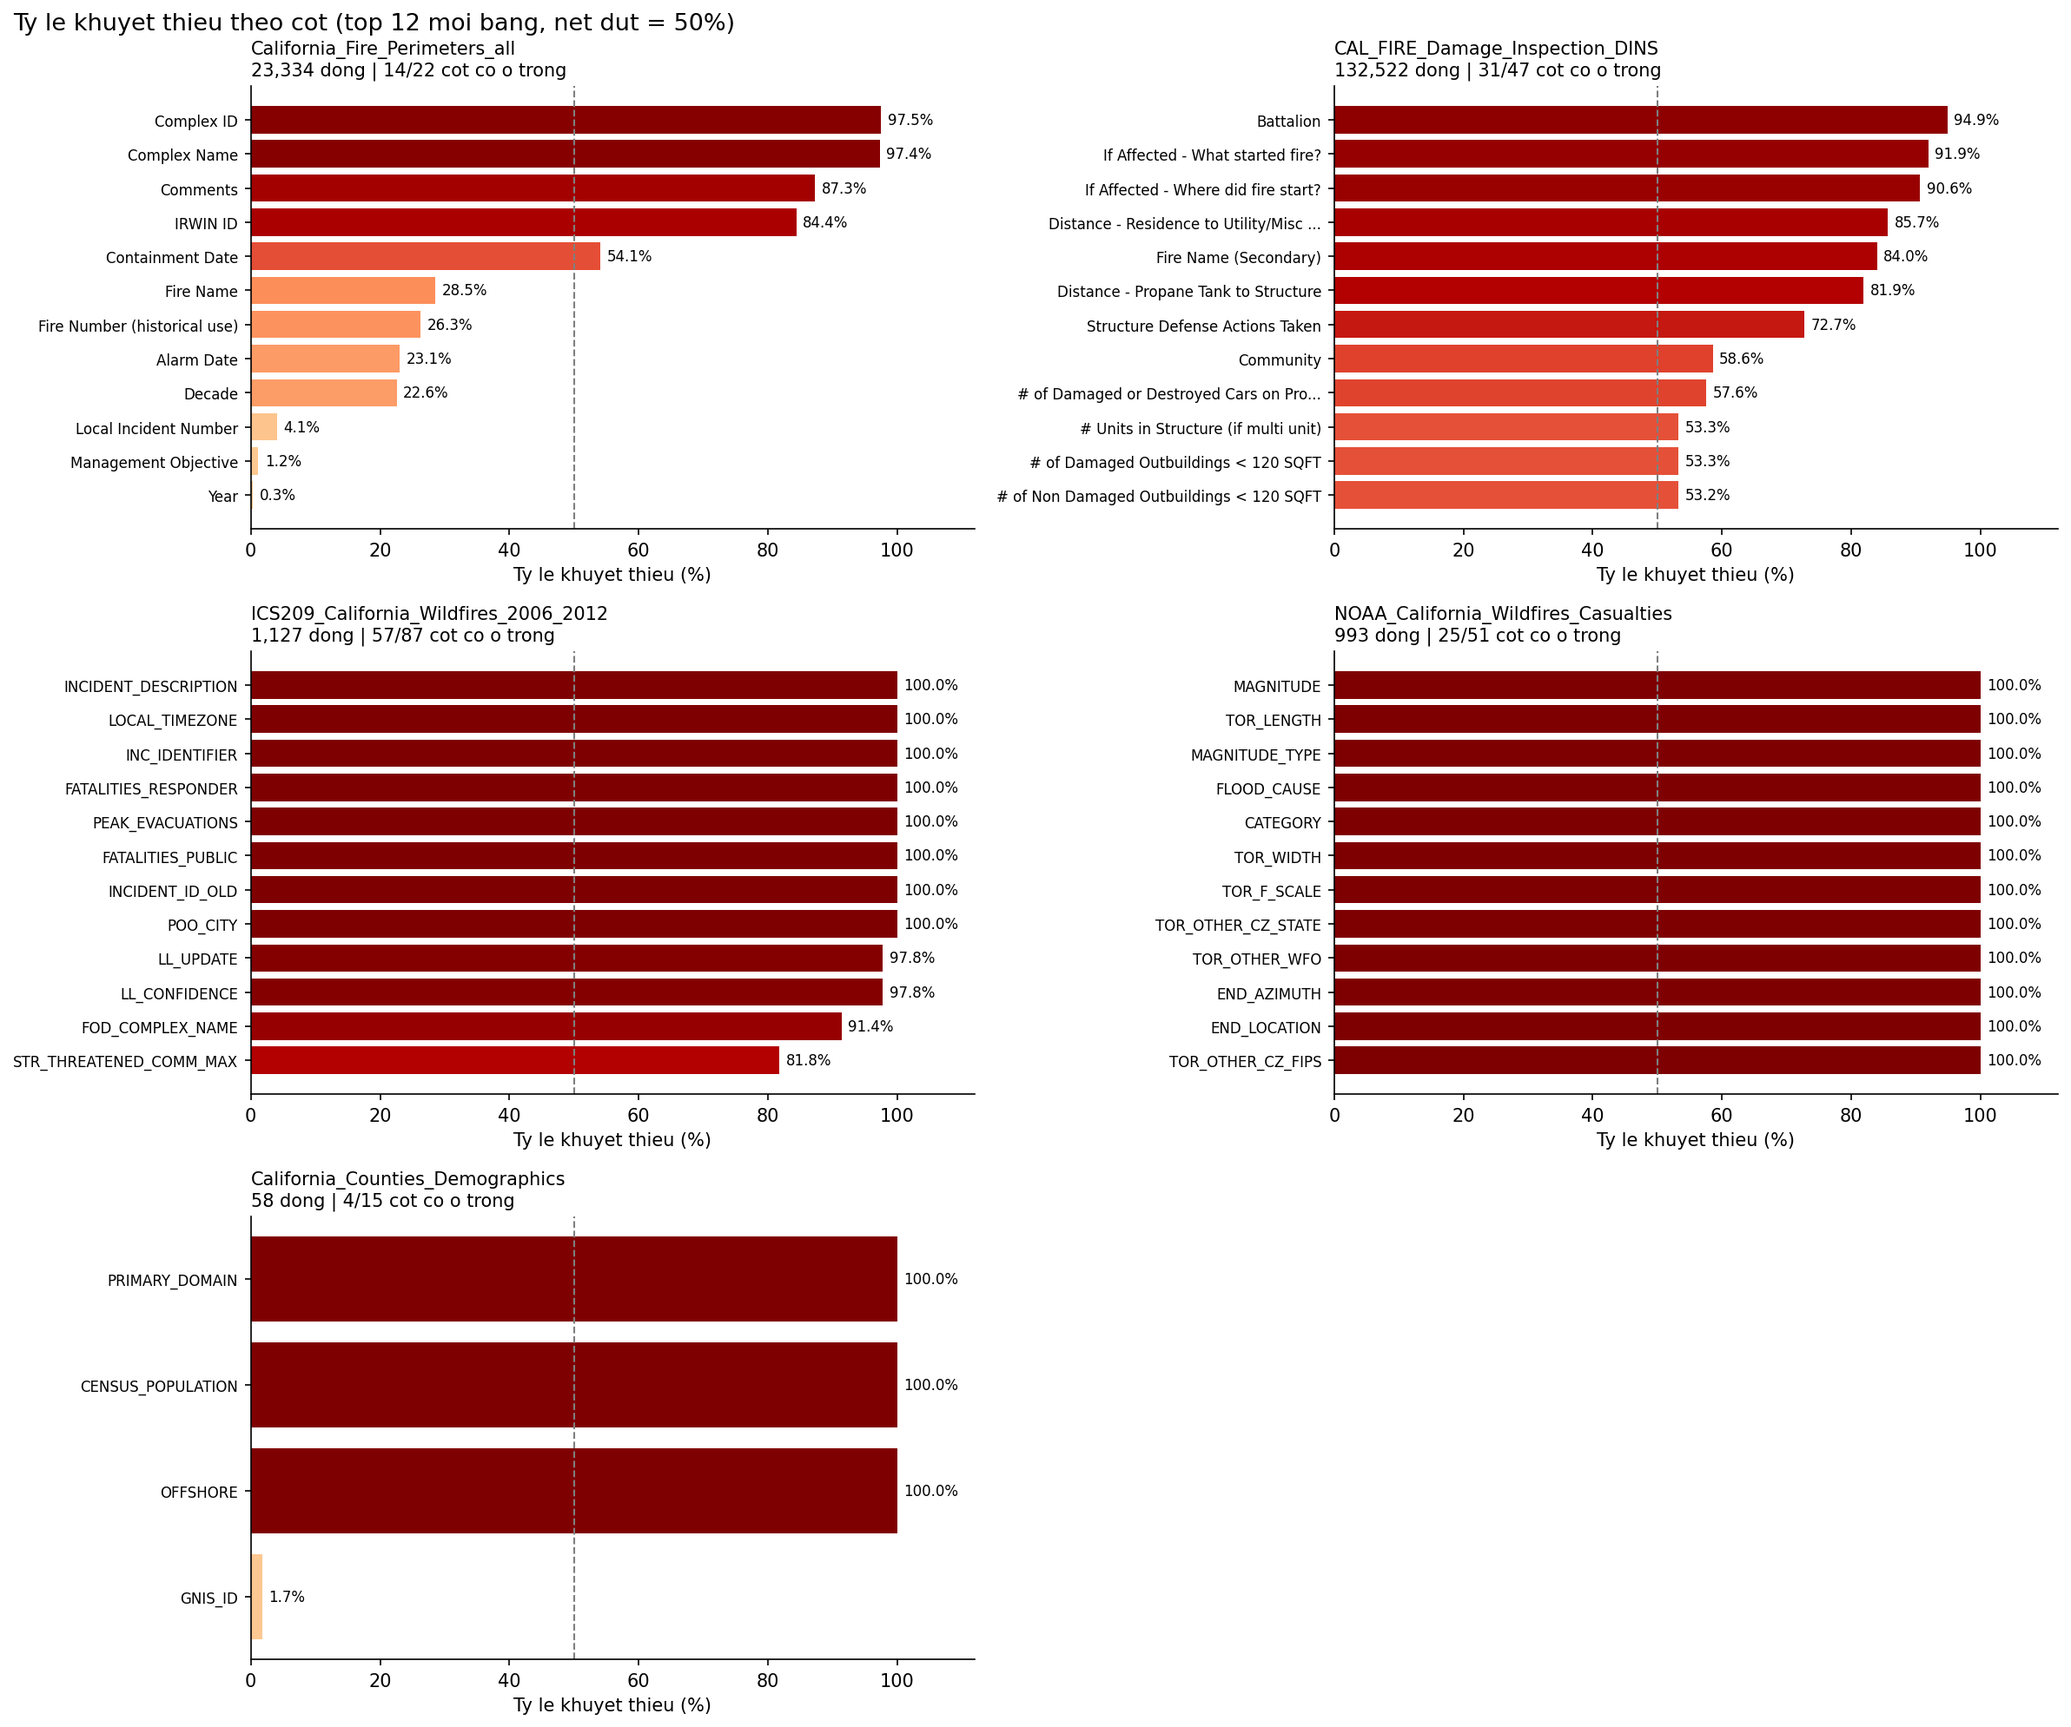
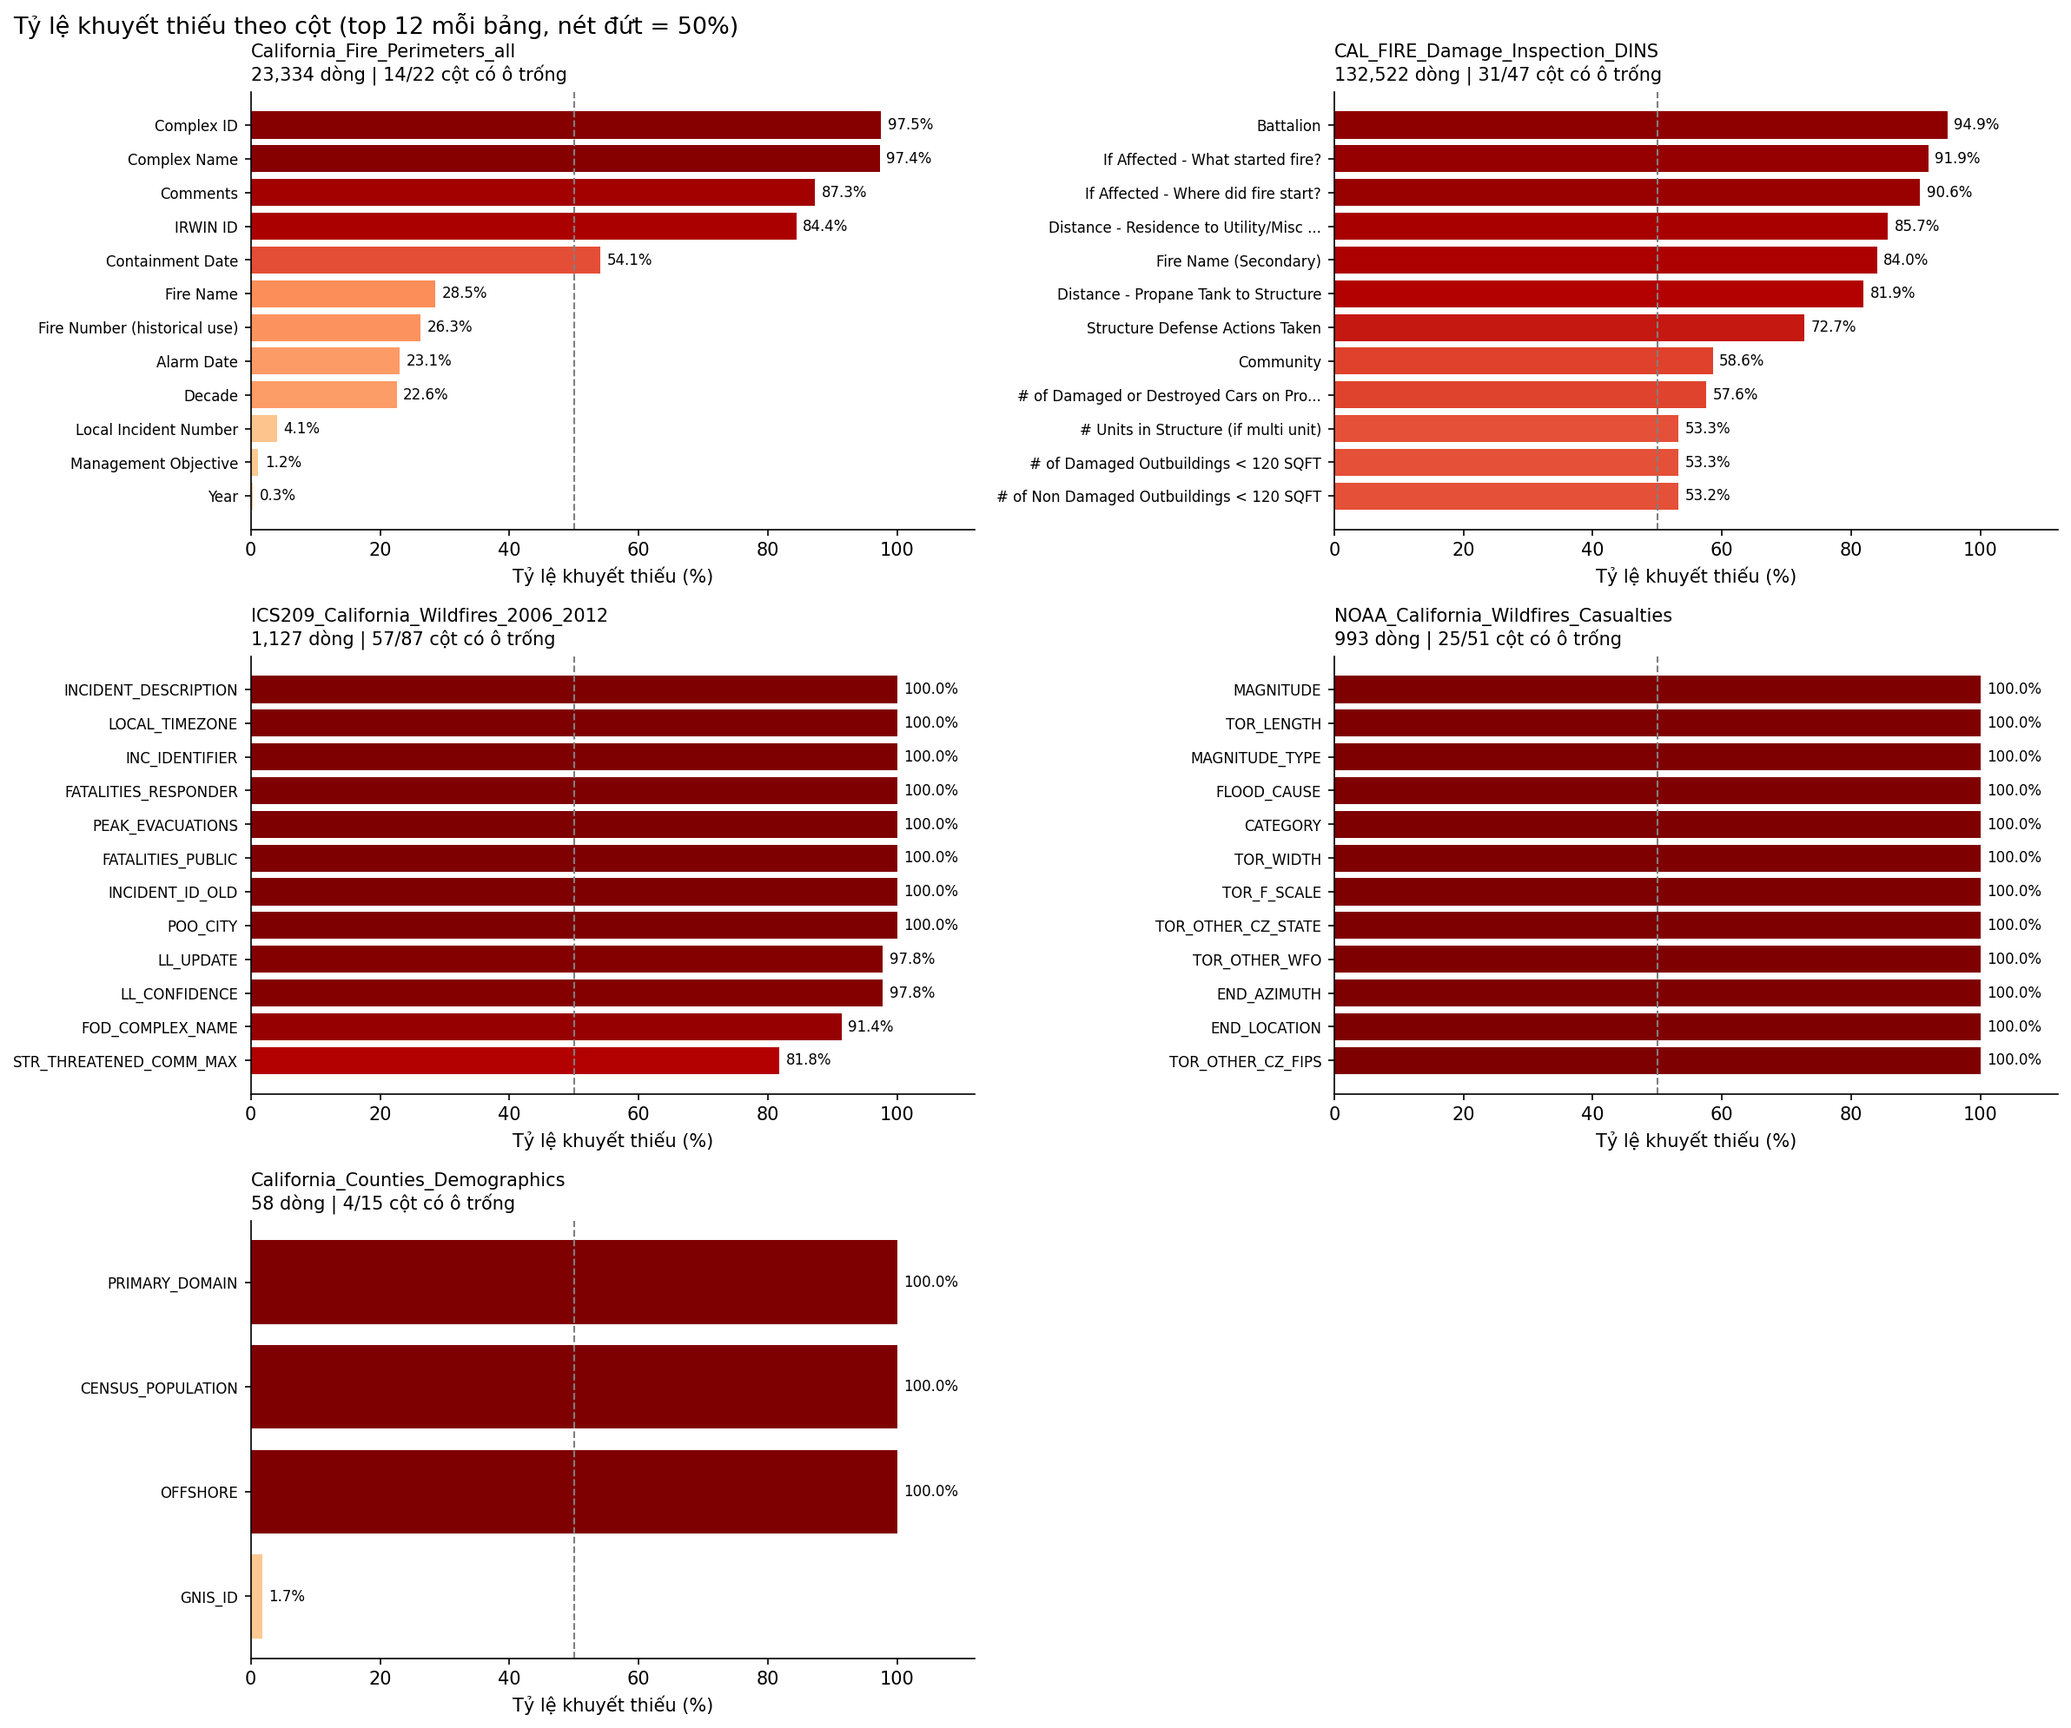
docs(eda): render EDA chart text in Vietnamese with diacritics
Titles, axis labels, legends and annotations of eda_01..eda_06 now use
full UTF-8 Vietnamese (e.g. "Người chết trực tiếp", "Diện tích cháy").

diff --git a/src/02_eda.py b/src/02_eda.py
@@ -209,9 +209,9 @@ def plot_missing_values(df=None, output_path: Path = FIGURES_DIR / "eda_01_missi
         top = missing_pct[missing_pct > 0].sort_values(ascending=False).head(top_n)[::-1]
 
         title = Path(RAW_FILES.get(name, name)).stem
-        ax.set_title(f"{title}\n{len(data):,} dong | {n_missing_cols}/{data.shape[1]} cot co o trong", loc="left", fontsize=10)
+        ax.set_title(f"{title}\n{len(data):,} dòng | {n_missing_cols}/{data.shape[1]} cột có ô trống", loc="left", fontsize=10)
         if top.empty:
-            ax.text(0.5, 0.5, "Khong co o trong", ha="center", va="center", transform=ax.transAxes)
+            ax.text(0.5, 0.5, "Không có ô trống", ha="center", va="center", transform=ax.transAxes)
             ax.set_axis_off()
             continue
 
@@ -221,7 +221,7 @@ def plot_missing_values(df=None, output_path: Path = FIGURES_DIR / "eda_01_missi
             ax.text(v + 1, y, f"{v:.1f}%", va="center", fontsize=8)
         ax.axvline(50, color=COLOR_NEUTRAL, linestyle="--", linewidth=1)  # nguong 50%: can nhac bo cot
         ax.set_xlim(0, 112)
-        ax.set_xlabel("Ty le khuyet thieu (%)")
+        ax.set_xlabel("Tỷ lệ khuyết thiếu (%)")
         ax.tick_params(axis="y", labelsize=8)
         ax.spines[["top", "right"]].set_visible(False)
 
@@ -229,7 +229,7 @@ def plot_missing_values(df=None, output_path: Path = FIGURES_DIR / "eda_01_missi
     for ax in axes.flat[len(datasets):]:
         ax.set_axis_off()
 
-    fig.suptitle(f"Ty le khuyet thieu theo cot (top {top_n} moi bang, net dut = 50%)", fontsize=13, x=0.01, ha="left")
+    fig.suptitle(f"Tỷ lệ khuyết thiếu theo cột (top {top_n} mỗi bảng, nét đứt = 50%)", fontsize=13, x=0.01, ha="left")
     fig.tight_layout()
     _save_figure(fig, output_path, "bieu do khuyet thieu")
     return fig
@@ -248,15 +248,15 @@ def plot_distributions(df=None, output_path: Path = FIGURES_DIR / "eda_02_distri
     fig, ax = plt.subplots(figsize=(10, 5))
     sns.histplot(area, log_scale=True, bins=40, kde=True, color=COLOR_FIRE_MID, edgecolor="white", ax=ax)
     ax.axvline(area.median(), color=COLOR_NEUTRAL, linestyle="--", linewidth=1)
-    ax.text(area.median(), 0.97, f" trung vi {area.median():,.0f} ha", transform=ax.get_xaxis_transform(), va="top", fontsize=8)
+    ax.text(area.median(), 0.97, f" trung vị {area.median():,.0f} ha", transform=ax.get_xaxis_transform(), va="top", fontsize=8)
     ax.axvline(MEGAFIRE_HA, color=COLOR_FIRE_EXTREME, linestyle=":", linewidth=1.2)
-    ax.text(MEGAFIRE_HA, 0.88, f" sieu dam chay\n >= {MEGAFIRE_HA:,.0f} ha", transform=ax.get_xaxis_transform(),
+    ax.text(MEGAFIRE_HA, 0.88, f" siêu đám cháy\n ≥ {MEGAFIRE_HA:,.0f} ha", transform=ax.get_xaxis_transform(),
             va="top", fontsize=8, color=COLOR_FIRE_EXTREME)
-    ax.set_title(f"Dien tich chay (FRAP {STUDY_YEARS[0]}-{STUDY_YEARS[1]}, n = {len(area):,} vu)", loc="left", fontsize=11)
-    ax.set_xlabel("burned_area_ha (thang log)")
-    ax.set_ylabel("So vu chay")
+    ax.set_title(f"Diện tích cháy (FRAP {STUDY_YEARS[0]}–{STUDY_YEARS[1]}, n = {len(area):,} vụ)", loc="left", fontsize=11)
+    ax.set_xlabel("Diện tích cháy, ha (thang log)")
+    ax.set_ylabel("Số vụ cháy")
     ax.spines[["top", "right"]].set_visible(False)
-    fig.suptitle("Phan phoi lech phai manh -> can bien doi log1p truoc khi lam sach / mo hinh", fontsize=13, x=0.01, ha="left")
+    fig.suptitle("Phân phối lệch phải mạnh → cần biến đổi log1p trước khi làm sạch / mô hình", fontsize=13, x=0.01, ha="left")
     fig.tight_layout()
     _save_figure(fig, output_path, "bieu do phan phoi")
     return fig
@@ -284,11 +284,11 @@ def plot_outlier_boxplots(df=None, output_path: Path = FIGURES_DIR / "eda_03_out
                         ha="center", fontsize=8, arrowprops={"arrowstyle": "-", "color": COLOR_NEUTRAL, "lw": 0.8})
 
     counts = data["source"].value_counts()
-    ax.set_yticks(range(len(palette)), [f"{s}\nn = {counts.get(s, 0)} vu" for s in palette])
-    ax.set_xlabel("So cong trinh bi pha huy moi vu chay (thang log)")
+    ax.set_yticks(range(len(palette)), [f"{s}\nn = {counts.get(s, 0)} vụ" for s in palette])
+    ax.set_xlabel("Số công trình bị phá hủy mỗi vụ cháy (thang log)")
     ax.set_ylabel("")
     ax.spines[["top", "right"]].set_visible(False)
-    ax.set_title("Cong trinh bi pha huy moi vu chay: phan lon vu chay < 40 nha, mot so it sieu tham hoa hang nghin nha",
+    ax.set_title("Công trình bị phá hủy mỗi vụ cháy: phần lớn vụ cháy < 40 nhà, một số ít siêu thảm họa hàng nghìn nhà",
                  loc="left", fontsize=12)
     fig.tight_layout()
     _save_figure(fig, output_path, "Boxplot ngoai lai")
@@ -300,17 +300,17 @@ def plot_correlation_heatmap(df=None, output_path: Path = FIGURES_DIR / "eda_04_
     # df: DataFrame tu build_fire_features(); None -> tu doc va gop
     fires = df if df is not None else build_fire_features(add_derived_columns(load_raw_data()))
     labels = {
-        "year": "Nam",
-        "burned_area_ha": "Dien tich chay (ha)",
-        "containment_days": "So ngay dap lua",
-        "structures_destroyed": "Cong trinh bi pha huy",
+        "year": "Năm",
+        "burned_area_ha": "Diện tích cháy (ha)",
+        "containment_days": "Số ngày dập lửa",
+        "structures_destroyed": "Công trình bị phá hủy",
     }
     values = fires[list(labels)]
     # Pearson nhay voi ngoai lai -> tinh tren log1p; Spearman dua tren hang nen dung so goc
     logged = values.assign(**{c: np.log1p(values[c]) for c in labels if c != "year"})
     matrices = {
-        "Pearson (tren log1p)": logged.corr(method="pearson"),
-        "Spearman (tuong quan hang)": values.corr(method="spearman"),
+        "Pearson (trên log1p)": logged.corr(method="pearson"),
+        "Spearman (tương quan hạng)": values.corr(method="spearman"),
     }
 
     fig, axes = plt.subplots(1, 2, figsize=(13, 5.5))
@@ -326,8 +326,8 @@ def plot_correlation_heatmap(df=None, output_path: Path = FIGURES_DIR / "eda_04_
         ax.tick_params(axis="y", rotation=0)
 
     n_days = int(values["containment_days"].notna().sum())
-    fig.suptitle(f"Tuong quan giua cac bien vu chay FRAP {STUDY_YEARS[0]}-{STUDY_YEARS[1]} "
-                 f"(n = {len(fires):,} vu; {n_days:,} vu co du ngay bat dau / dap tat)", fontsize=13, x=0.01, ha="left")
+    fig.suptitle(f"Tương quan giữa các biến vụ cháy FRAP {STUDY_YEARS[0]}–{STUDY_YEARS[1]} "
+                 f"(n = {len(fires):,} vụ; {n_days:,} vụ có đủ ngày bắt đầu / dập tắt)", fontsize=13, x=0.01, ha="left")
     fig.tight_layout()
     _save_figure(fig, output_path, "Correlation Heatmap")
     return fig
@@ -353,15 +353,15 @@ def plot_temporal_trends(df=None, output_path: Path = FIGURES_DIR / "eda_05_temp
     ax = axes[0]
     ax.plot(n_fires.index, n_fires.values, marker="o", color=COLOR_FIRE_HIGH, linewidth=2)
     ax.axhline(n_fires.mean(), color=COLOR_NEUTRAL, linestyle="--", linewidth=1)
-    ax.set_ylabel("So vu chay")
-    ax.set_title(f"So vu chay ghi nhan (FRAP, tong {n_fires.sum():,} vu, net dut = trung binh {n_fires.mean():,.0f} vu/nam)",
+    ax.set_ylabel("Số vụ cháy")
+    ax.set_title(f"Số vụ cháy ghi nhận (FRAP, tổng {n_fires.sum():,} vụ, nét đứt = trung bình {n_fires.mean():,.0f} vụ/năm)",
                  loc="left", fontsize=11)
 
     # 2. Tong dien tich chay moi nam
     ax = axes[1]
     ax.bar(area_kha.index, area_kha.values, color=COLOR_FIRE_MID)
-    ax.set_ylabel("Nghin ha")
-    ax.set_title(f"Tong dien tich chay (nghin ha, tong {area_kha.sum():,.0f})", loc="left", fontsize=11)
+    ax.set_ylabel("Nghìn ha")
+    ax.set_title(f"Tổng diện tích cháy (nghìn ha, tổng {area_kha.sum():,.0f})", loc="left", fontsize=11)
     _label_top_bars(ax, area_kha, top_n, "{:,.0f}")
 
     # 3. Cong trinh bi pha huy moi nam, to mau theo nguon du lieu
@@ -375,15 +375,15 @@ def plot_temporal_trends(df=None, output_path: Path = FIGURES_DIR / "eda_05_temp
     _label_top_bars(ax, destroyed.sum(axis=1), top_n, "{:,.0f}")
     ax.axvline(2012.5, color=COLOR_NEUTRAL, linestyle=":", linewidth=1)  # moc chuyen nguon ICS-209 -> DINS
     ax.legend(frameon=False, loc="upper left")
-    ax.set_ylabel("Cong trinh")
-    ax.set_title(f"Cong trinh bi pha huy hoan toan (tong {int(destroyed.to_numpy().sum()):,})", loc="left", fontsize=11)
+    ax.set_ylabel("Công trình")
+    ax.set_title(f"Công trình bị phá hủy hoàn toàn (tổng {int(destroyed.to_numpy().sum()):,})", loc="left", fontsize=11)
 
     for ax in axes:
         ax.spines[["top", "right"]].set_visible(False)
     axes[-1].set_xticks(list(years))
     axes[-1].tick_params(axis="x", rotation=45)
-    fig.suptitle(f"Xu huong chay rung California {STUDY_YEARS[0]}-{STUDY_YEARS[1]}: "
-                 f"so vu dao dong {n_fires.min()}-{n_fires.max()}/nam, dien tich va thiet hai don vao vai nam cuc doan",
+    fig.suptitle(f"Xu hướng cháy rừng California {STUDY_YEARS[0]}–{STUDY_YEARS[1]}: "
+                 f"số vụ dao động {n_fires.min()}–{n_fires.max()}/năm, diện tích và thiệt hại dồn vào vài năm cực đoan",
                  fontsize=13, x=0.01, ha="left")
     fig.tight_layout()
     _save_figure(fig, output_path, "bieu do xu huong thoi gian")
@@ -402,7 +402,7 @@ def plot_casualties(df=None, output_path: Path = FIGURES_DIR / "eda_06_casualtie
     noaa = df if df is not None else load_raw_data()["noaa"]
     noaa = noaa[noaa["YEAR"].between(*STUDY_YEARS)]
     years = range(STUDY_YEARS[0], STUDY_YEARS[1] + 1)
-    measures = {"DEATHS_DIRECT": "Nguoi chet truc tiep", "INJURIES_DIRECT": "Nguoi bi thuong truc tiep"}
+    measures = {"DEATHS_DIRECT": "Người chết trực tiếp", "INJURIES_DIRECT": "Người bị thương trực tiếp"}
 
     # 1 vu chay lan qua nhieu vung du bao -> nhieu dong lap lai cung so thuong vong; gop giong 03_clean.py
     events = noaa.groupby(["EPISODE_ID", noaa_fire_key(noaa).rename("fire_key")]).agg(
@@ -414,8 +414,8 @@ def plot_casualties(df=None, output_path: Path = FIGURES_DIR / "eda_06_casualtie
     fig, axes = plt.subplots(2, 1, figsize=(13, 8), sharex=True)
     for ax, (col, label) in zip(axes, measures.items()):
         merged, duplicated = by_year[col], raw_by_year[col] - by_year[col]
-        ax.bar(years, merged, color=COLOR_FIRE_HIGH, label="Sau khi gop trung")
-        ax.bar(years, duplicated, bottom=merged, color="#FDAE6B", label="Bi dem trung (1 vu ghi o nhieu vung du bao)")
+        ax.bar(years, merged, color=COLOR_FIRE_HIGH, label="Sau khi gộp trùng")
+        ax.bar(years, duplicated, bottom=merged, color="#FDAE6B", label="Bị đếm trùng (1 vụ ghi ở nhiều vùng dự báo)")
 
         # Nhan top_n nam: gia tri sau gop + vu chay lon nhat trong nam (neu tach duoc ten)
         for year, value in merged.nlargest(top_n).items():
@@ -423,8 +423,8 @@ def plot_casualties(df=None, output_path: Path = FIGURES_DIR / "eda_06_casualtie
             name = "" if top["fire_key"].startswith("_EVENT_") else f"\n{top['fire_key']} {top[col]:,}"
             ax.annotate(f"{value:,}{name}", xy=(year, raw_by_year.at[year, col]), xytext=(0, 3),
                         textcoords="offset points", ha="center", fontsize=8)
-        ax.set_ylabel("Nguoi")
-        ax.set_title(f"{label}: {merged.sum():,} nguoi sau khi gop trung (du lieu tho ghi {raw_by_year[col].sum():,})",
+        ax.set_ylabel("Người")
+        ax.set_title(f"{label}: {merged.sum():,} người sau khi gộp trùng (dữ liệu thô ghi {raw_by_year[col].sum():,})",
                      loc="left", fontsize=11)
         ax.set_ylim(0, raw_by_year[col].max() * 1.25)  # chua cho nhan 2 dong tren cot cao nhat
         ax.spines[["top", "right"]].set_visible(False)
@@ -435,8 +435,8 @@ def plot_casualties(df=None, output_path: Path = FIGURES_DIR / "eda_06_casualtie
 
     deadliest = events.nlargest(1, "DEATHS_DIRECT").iloc[0]
     total_deaths = by_year["DEATHS_DIRECT"].sum()
-    fig.suptitle(f"Thiet hai ve nguoi hiem va don vao vai tham hoa: rieng {deadliest['fire_key']} {deadliest['YEAR']} chiem "
-                 f"{deadliest['DEATHS_DIRECT'] / total_deaths:.0%} so nguoi chet truc tiep {STUDY_YEARS[0]}-{STUDY_YEARS[1]}",
+    fig.suptitle(f"Thiệt hại về người hiếm và dồn vào vài thảm họa: riêng {deadliest['fire_key']} {deadliest['YEAR']} chiếm "
+                 f"{deadliest['DEATHS_DIRECT'] / total_deaths:.0%} số người chết trực tiếp {STUDY_YEARS[0]}–{STUDY_YEARS[1]}",
                  fontsize=13, x=0.01, ha="left")
     fig.tight_layout()
     _save_figure(fig, output_path, "bieu do thiet hai ve nguoi")
